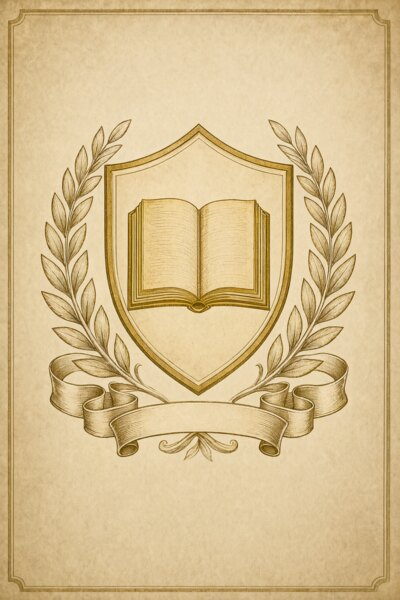
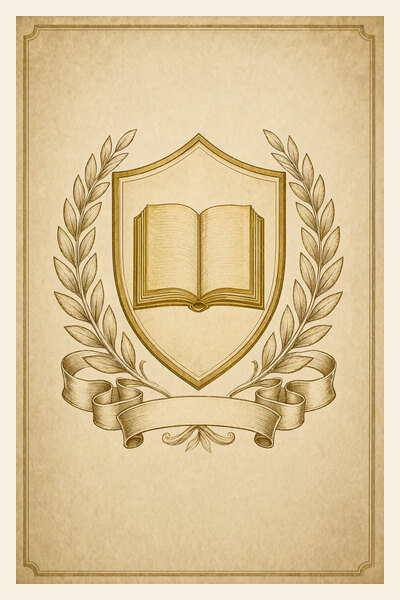
feat: 白边从 CSS 改成烘进卡背图里
上一版用 inset box-shadow 描边，导出/打印时白边会丢。改成在
tools/deck-backs.sh 里加一圈等宽白纸边（16px / 400 = 4%，四边等宽
才像真卡），CSS 那圈 inset 去掉，否则叠成双层。

内框因此是 368x568（0.648），不是 2:3。试过 ^ 铺满再裁，结果左右各
吃掉母图 14px，纹章外框到画边的留白被削掉、边框贴上白边；改成 ! 强行
压进 368x568，竖向缩 2.9%，装饰图看不出来，母图一点不损。

diff --git a/client/src/components/GameBoard.css b/client/src/components/GameBoard.css
@@ -315,12 +315,9 @@
   height: 6.2em;
   aspect-ratio: 6 / 9;
   border-radius: 0.5rem;
-  /* 白边照原版：印刷卡四周留一圈白纸芯，原图约 2.4% 卡宽。牌桌只有 66px 宽，
-     按比例算只剩 1.6px 看不出来，所以给到 0.16rem（≈3.9%）。
-     用 inset 描边而不是加 border，免得把 2:3 的画面压成 0.645。 */
-  box-shadow:
-    rgba(0, 0, 0, 0.9) -3px 2px 6px -1px,
-    inset 0 0 0 0.16rem #f6f0e2;
+  /* 原版那样的白纸边已经烘进图里了（tools/deck-backs.sh，四边等宽 16/400 = 4%），
+     这里别再画一圈 inset 描边，否则会叠成双层。 */
+  box-shadow: rgba(0, 0, 0, 0.9) -3px 2px 6px -1px;
   border: 1px solid rgba(212, 175, 55, 0.4);
 }
 .deck-count {

diff --git a/docs/ASSETS.md b/docs/ASSETS.md
@@ -19,7 +19,7 @@ client/public/images/
   venues/                     会议 logo，90 张，8.2 MB
   tokens/                     筹码，6 色 × 2 套 = 12 张，484 KB
   nobles/                     会士徽标，10 张，164 KB
-  decks/                      卡背（学院纹章），3 张（A/B/C 各 1），160 KB
+  decks/                      卡背（学院纹章 + 白边），3 张（A/B/C 各 1），196 KB
   bluebackground.jpg          牌桌桌布，580 KB
 ```
 
@@ -33,7 +33,7 @@ client/public/images/
 | 会议 logo | 90（82 png + 8 svg） | 8.2 MB | 会议名小写 = `id` | ❌ 没留 | ❌ 手工下载 | `shared/venues.js` 的 `art.src` |
 | 筹码 | 12（6 色 × 两套） | 484 KB | `<颜色>Token.{jpg,png}` | `.jpg` 就是原图，`.png` 是在它上面 P 掉的成品 | ❌ 外部 P 图，没留脚本 | `GameBoard.jsx` 引 `.jpg`，`NobleTile.jsx` 引 `.png` |
 | 会士徽标 | 10 | 164 KB | `<学会 id>.png` | ✅ `assets/nobles-raw/` | ✅ `tools/noble-logos.py` | `shared/nobles.js` 的 `logo` |
-| 卡背 | 3 | 160 KB | `crest-<档>.jpg` | ✅ `assets/decks-raw/` | ✅ `tools/deck-backs.sh` | `GameBoard.jsx` 的 `TIER_DECK` |
+| 卡背 | 3 | 196 KB | `crest-<档>.jpg` | ✅ `assets/decks-raw/` | ✅ `tools/deck-backs.sh` | `GameBoard.jsx` 的 `TIER_DECK` |
 | 桌布 | 1 | 568 KB | `bluebackground.jpg` | ❌ 官方素材 | ❌ | `GameBoard.css` |
 
 颜色 → 资源（筹码文件名里的 `<颜色>` 是官方宝石色名，不是我们的资源名）：
